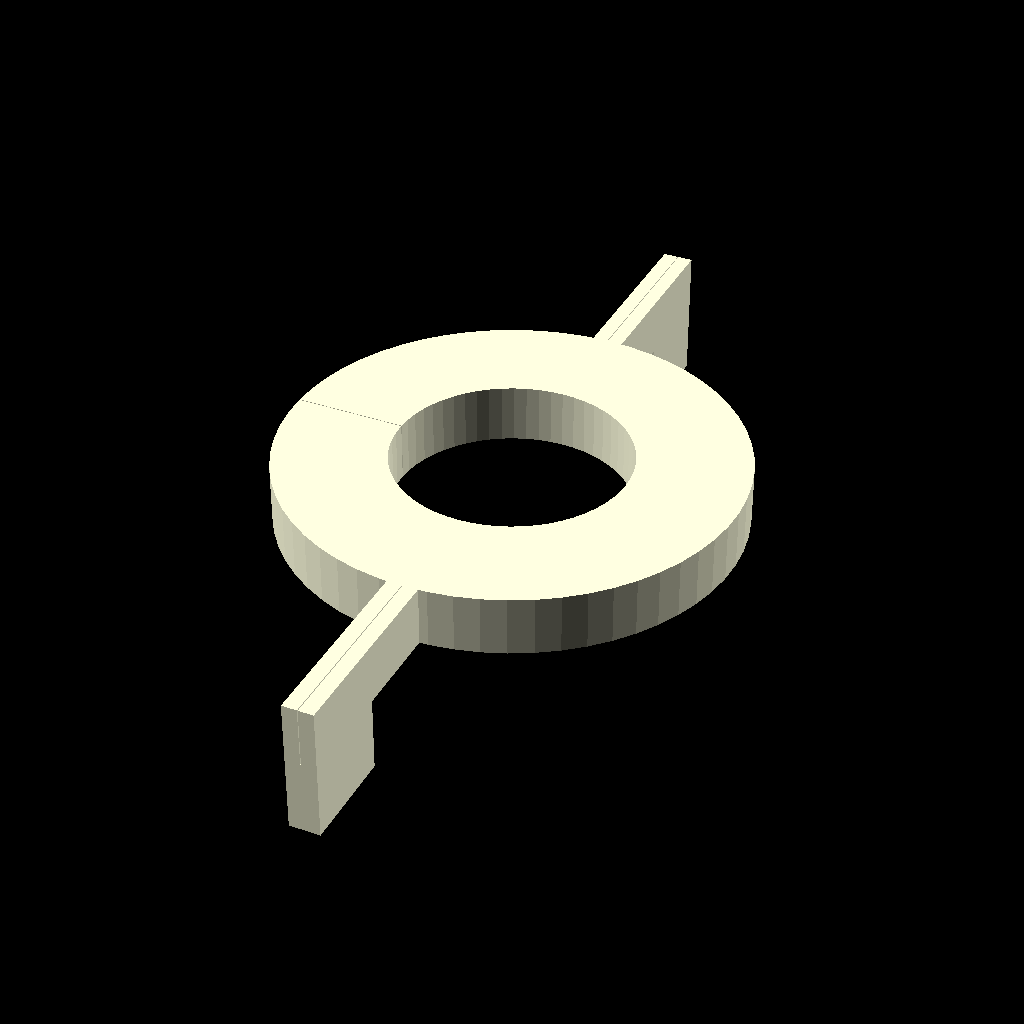
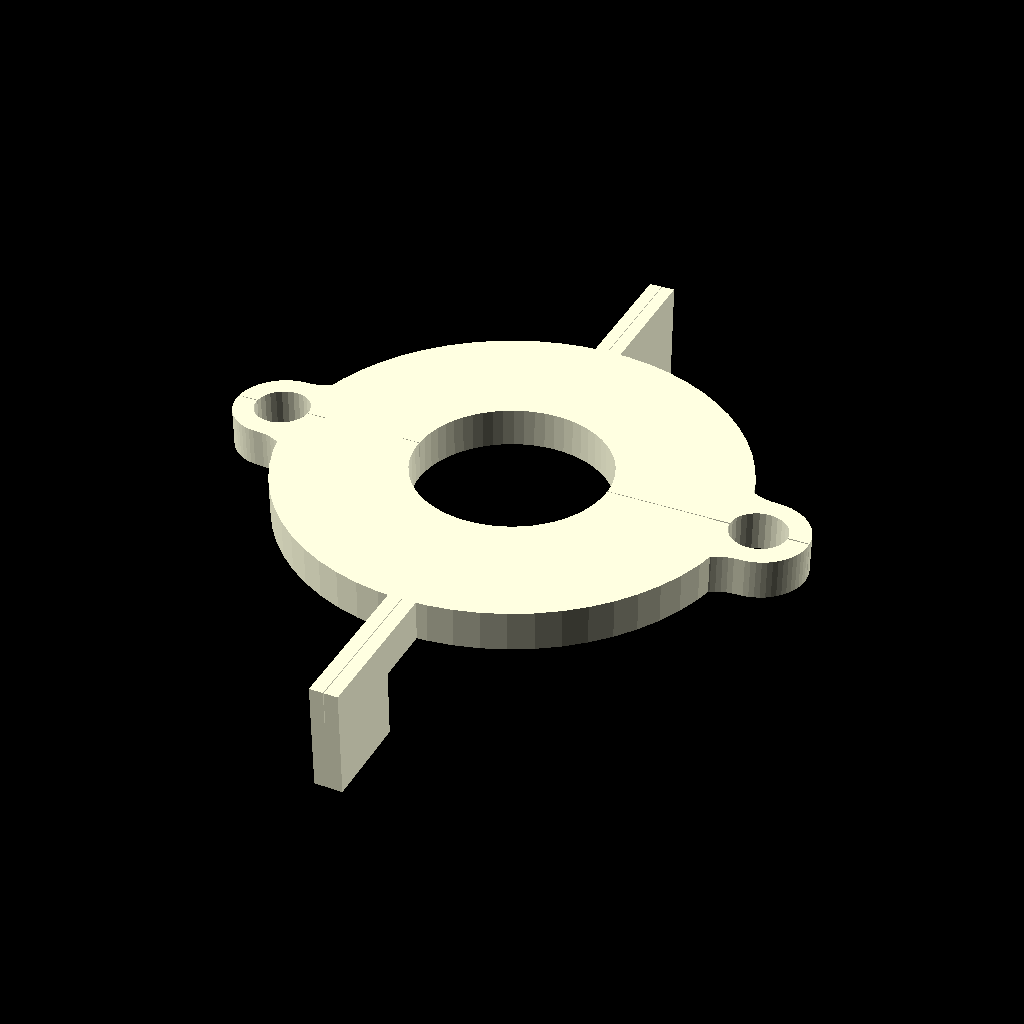
update 3d printed parts

diff --git a/prints/README.md b/prints/README.md
@@ -15,6 +15,10 @@
 
 [![](png/micrologger_adapter_culture60_nozzle_0.4mm.png)](stl/micrologger_adapter_culture60_nozzle_0.4mm.stl)
 
+## Adapter Culture60 Tight
+
+[![](png/micrologger_adapter_culture60_tight_nozzle_0.4mm.png)](stl/micrologger_adapter_culture60_tight_nozzle_0.4mm.stl)
+
 ## Adapter Gl45
 
 [![](png/micrologger_adapter_gl45_nozzle_0.4mm.png)](stl/micrologger_adapter_gl45_nozzle_0.4mm.stl)
@@ -31,6 +35,10 @@
 
 [![](png/micrologger_adapter_serum160_nozzle_0.4mm.png)](stl/micrologger_adapter_serum160_nozzle_0.4mm.stl)
 
+## Adapter Serum160 Tight
+
+[![](png/micrologger_adapter_serum160_tight_nozzle_0.4mm.png)](stl/micrologger_adapter_serum160_tight_nozzle_0.4mm.stl)
+
 ## Adapter Serum60
 
 [![](png/micrologger_adapter_serum60_nozzle_0.4mm.png)](stl/micrologger_adapter_serum60_nozzle_0.4mm.stl)
@@ -42,6 +50,18 @@
 ## Base Bottle Adapter
 
 [![](png/micrologger_base_bottle_adapter_nozzle_0.4mm.png)](stl/micrologger_base_bottle_adapter_nozzle_0.4mm.stl)
+
+## Controller Back
+
+[![](png/micrologger_controller_back_nozzle_0.5mm.png)](stl/micrologger_controller_back_nozzle_0.5mm.stl)
+
+## Controller Body
+
+[![](png/micrologger_controller_body_nozzle_0.5mm.png)](stl/micrologger_controller_body_nozzle_0.5mm.stl)
+
+## Controller Magnet Holder
+
+[![](png/micrologger_controller_magnet_holder_nozzle_0.5mm.png)](stl/micrologger_controller_magnet_holder_nozzle_0.5mm.stl)
 
 ## Light Adapter Down
 